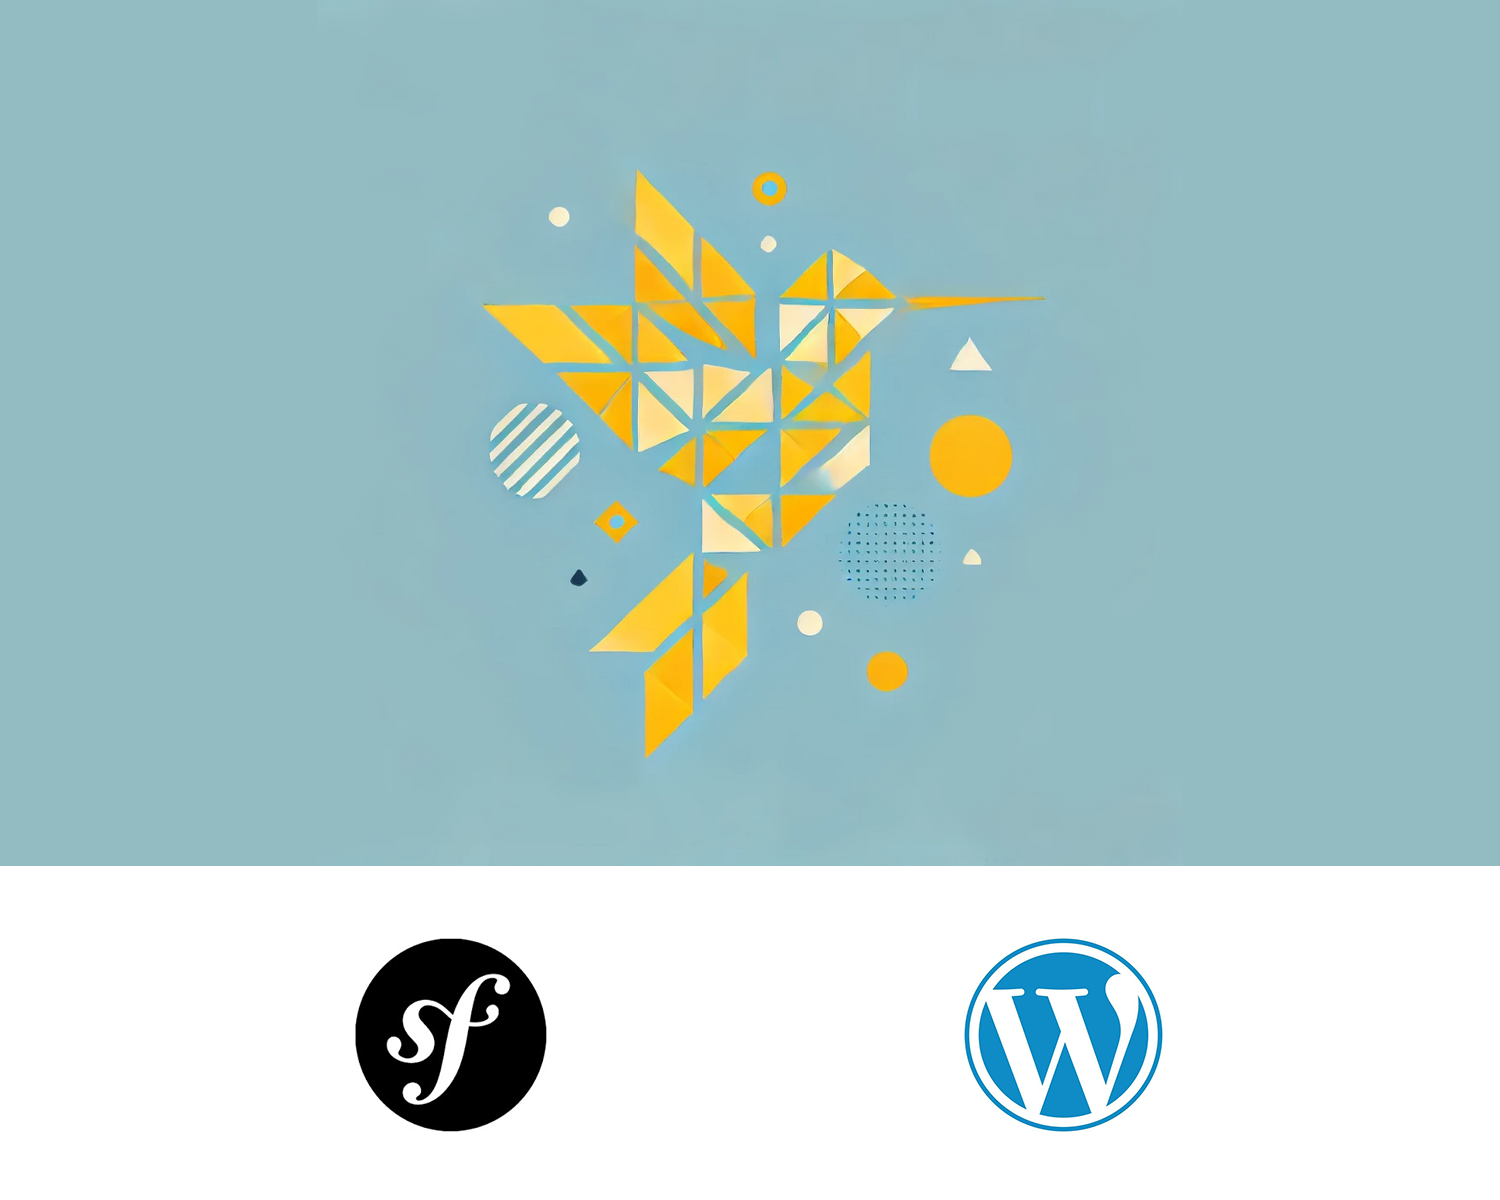
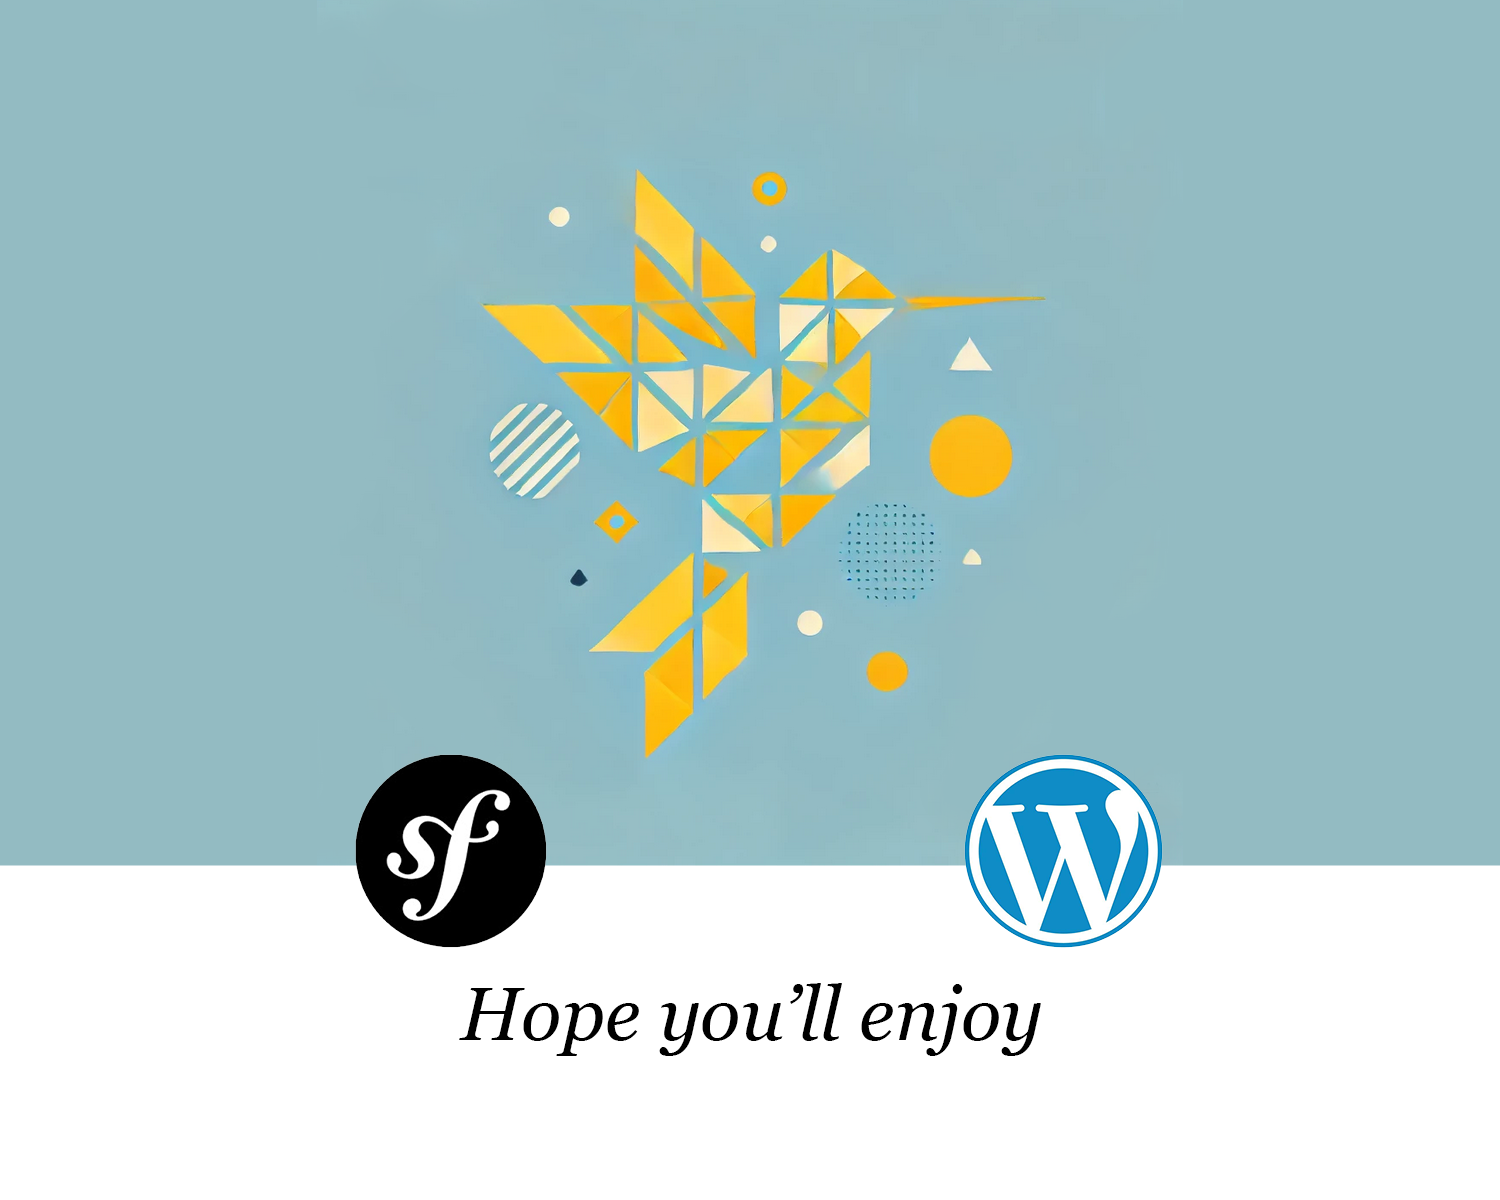
Add name

Changed region(s): [[0.2147, 0.6167, 0.7973, 0.9558]]

diff --git a/style.css b/style.css
@@ -1,5 +1,5 @@
 /*
-Theme Name: your template name
+Theme Name: Hope you'll enjoy
 Author: François VAILLANT
 Description: theme for your website
 Version: 1.0.0
